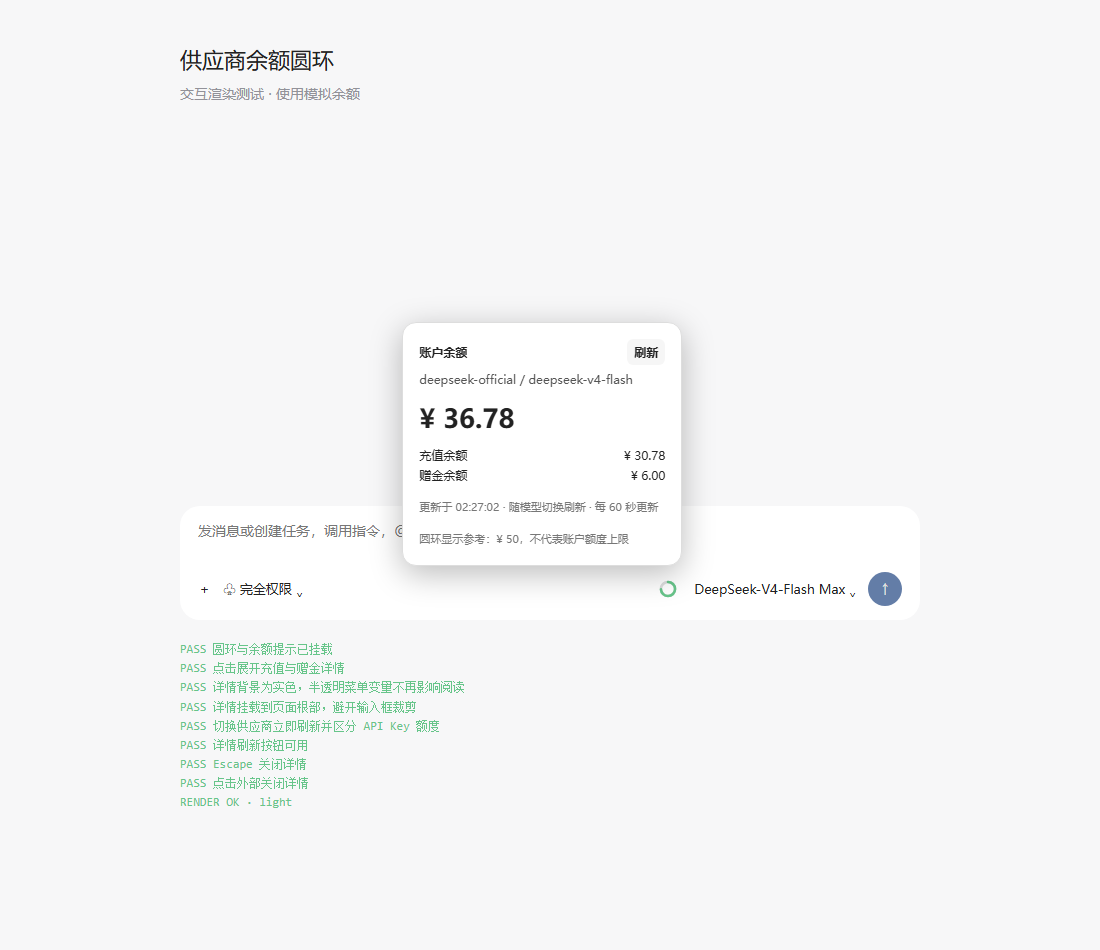
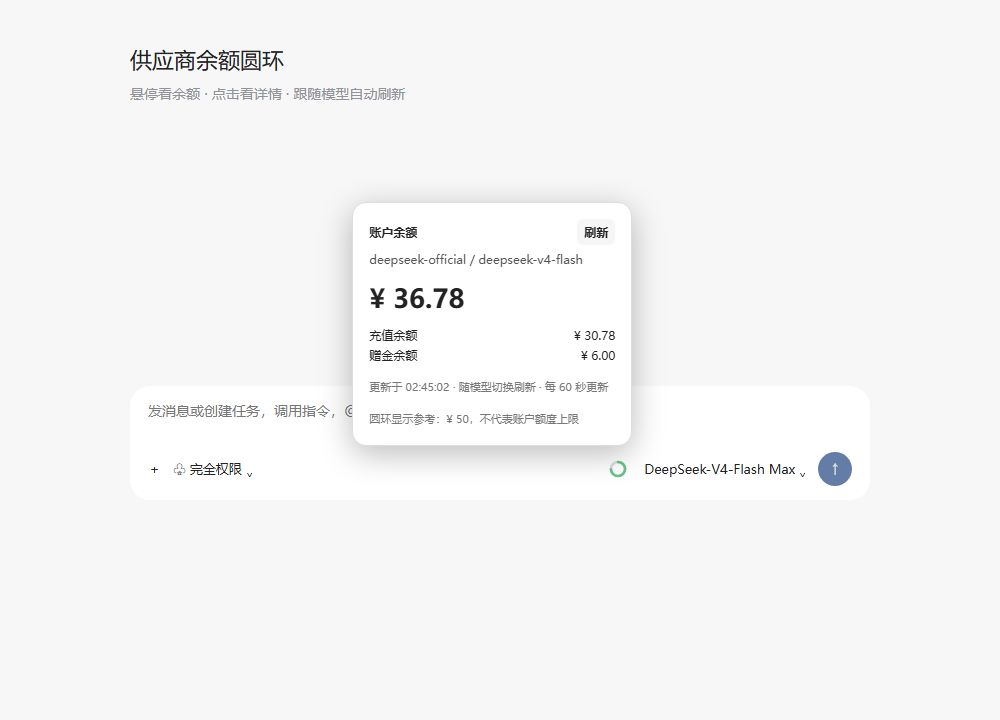
docs: replace README test captures with clean screenshots

Changed region(s): [[0.155, 0.3056, 0.868, 0.6722], [0.155, 0.6111, 0.434, 0.8556], [0.124, 0.0306, 0.403, 0.1528]]

diff --git a/README.en.md b/README.en.md
@@ -8,15 +8,19 @@ A provider balance ring in the DeepSeek Harness composer toolbar. Hover to see t
 
 ## Screenshots
 
-Dark theme:
+Actual Harness window, with the balance ring to the left of the model selector:
+
+![Balance ring location in the actual Harness application](preview/dsh-balance-chip-harness.jpg)
+
+Dark theme details (simulated data):
 
 ![Dark theme balance details with simulated data](preview/dsh-balance-chip-preview.png)
 
-Light theme:
+Light theme details (simulated data):
 
 ![Light theme balance details with simulated data](preview/dsh-balance-chip-light.png)
 
-Both screenshots come from the mock UI test. The amounts are simulated, not real account balances. The plugin UI currently follows the implementation's Chinese labels.
+The first image is an actual application screenshot with the sidebar collapsed and real balance details closed. The two detail images use simulated amounts. No test output or real account data is included. The plugin UI currently follows the implementation's Chinese labels.
 
 ## Features
 

diff --git a/README.md b/README.md
@@ -8,15 +8,19 @@ DeepSeek Harness 输入框工具栏的供应商余额圆环。悬停看余额，
 
 ## 界面预览
 
-深色主题：
+实际 Harness 界面，圆环位于模型选择器左侧：
+
+![Harness 实机界面的余额圆环位置](preview/dsh-balance-chip-harness.jpg)
+
+深色主题详情（模拟数据）：
 
 ![深色主题详情（模拟余额）](preview/dsh-balance-chip-preview.png)
 
-浅色主题：
+浅色主题详情（模拟数据）：
 
 ![浅色主题详情（模拟余额）](preview/dsh-balance-chip-light.png)
 
-两张截图均来自模拟测试页面，金额不是实际账号余额。
+首张为实际应用截图，已收起侧栏且未展开真实余额；两张详情图使用模拟金额，均不包含测试输出或真实账号数据。
 
 ## 功能
 
